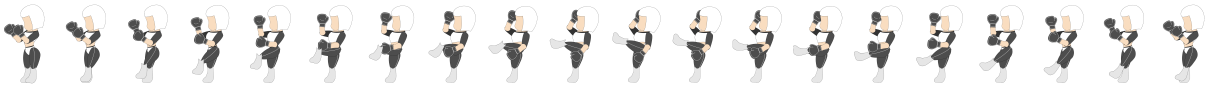
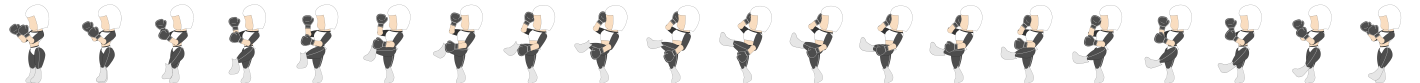
Pushing progress

diff --git a/Source/GameScene.cpp b/Source/GameScene.cpp
@@ -265,6 +265,11 @@ Entity * GameScene::createPlayer(int index,int posX, int posY, bool local)
 
 	animation->addAnimation("Run", Scene::resources().getTexture("Player Run"), m_animRects, .75f);
 	animation->addAnimation("Idle", Scene::resources().getTexture("Player Idle"), m_animRects, .5f);
+	m_animRects.clear();
+	for (int i = 0; i < 20; i++)
+	{
+		m_animRects.push_back({71 * i, 0, 71, 83 });
+	}
 	animation->addAnimation("Ground Kick", Scene::resources().getTexture("Player Ground Kick"), m_animRects, .4f);
 	animation->playAnimation("Idle", true); //Play the idle animation from the start
 
@@ -507,12 +512,12 @@ void GameScene::draw(SDL_Renderer & renderer)
 
 		//Draw the players outline for the hitbox
 
-		rect.w = phys->m_body->getSize().x;
-		rect.h = phys->m_body->getSize().y;
-		rect.x = phys->m_body->getPosition().x - (rect.w / 2) - m_camera.x();
-		rect.y = phys->m_body->getPosition().y - (rect.h / 2) - m_camera.y();
-		SDL_SetRenderDrawColor(&renderer, 0, 255, 0, 255);
-		SDL_RenderDrawRect(&renderer, &rect);
+		//rect.w = phys->m_body->getSize().x;
+		//rect.h = phys->m_body->getSize().y;
+		//rect.x = phys->m_body->getPosition().x - (rect.w / 2) - m_camera.x();
+		//rect.y = phys->m_body->getPosition().y - (rect.h / 2) - m_camera.y();
+		//SDL_SetRenderDrawColor(&renderer, 0, 255, 0, 255);
+		//SDL_RenderDrawRect(&renderer, &rect);
 
 		//If the player is stunned, draw a yellow rectangle
 		if (phys->stunned())

diff --git a/Source/AnimationComponent.cpp b/Source/AnimationComponent.cpp
@@ -26,6 +26,13 @@ void AnimationComponent::playAnimation(std::string name, bool loop)
 	m_current->setLoop(loop);
 	//Set texture of the sprite based on the animation that is being played
 	getSprite()->setTexture(m_current->getTexture());
+	//Set the destination width and height
+	auto sDst = getSprite()->getDestRect();
+	auto aDst = m_current->getCurrentTextureRect();
+	sDst.w = aDst.w;
+	sDst.h = aDst.h;
+	getSprite()->setDestRect(sDst);
+	getSprite()->setSourceRect(aDst);
 }
 
 AnimationComponent::Animation::Animation(SDL_Texture* texture, std::string name, std::vector<SDL_Rect> frames, int maxFrames, float duration) :
@@ -41,6 +48,8 @@ AnimationComponent::Animation::Animation(SDL_Texture* texture, std::string name,
 {
 	//Get the time per frame
 	m_timePerFrame = m_duration / m_maxFrames;
+
+	m_overallSize = { 0,0, frames.at(0).w * m_maxFrames, frames.at(0).h };
 }
 
 void AnimationComponent::Animation::setLoop(bool b)

diff --git a/Header/AnimationComponent.h b/Header/AnimationComponent.h
@@ -18,6 +18,7 @@ public:
 
 		std::string& getName() { return m_name; }
 		SDL_Rect getCurrentTextureRect() { return m_frames.at(m_currentFrame); };
+		SDL_Rect getOverallSize() { return m_overallSize; }
 		SDL_Texture* getTexture() { return m_texture; }
 		bool& getLoop();
 		bool& getCompleted();
@@ -25,10 +26,12 @@ public:
 		int& getMaxFrames();
 		float& getTimeGone();
 		float& getTimePerFrame();
+		std::vector<SDL_Rect> getFrames() { return m_frames; }
 	private:
 		std::string m_name; //Name of the animation
 		SDL_Texture* m_texture; //The texture to animate
 		std::vector<SDL_Rect> m_frames; //Frames of the animation
+		SDL_Rect m_overallSize; //Size of the entire animation
 		int m_currentFrame; //The current frame of the animation
 		int m_maxFrames; //Maximum frames in the animation
 		float m_duration; //The duration of the animation

diff --git a/Header/SpriteComponent.h b/Header/SpriteComponent.h
@@ -42,6 +42,9 @@ public:
 			m_flip = SDL_RendererFlip(SDL_FLIP_NONE);
 	}
 
+	void setSourceRect(SDL_Rect size) { m_src = size; };
+	void setDestRect(SDL_Rect size) { m_dst = size; }
+
 	//Getters
 	Vector2f& getPosition() { return static_cast<PositionComponent*>(m_posPtr)->position; }
 	Vector2f getBounds() { return m_bounds; }
